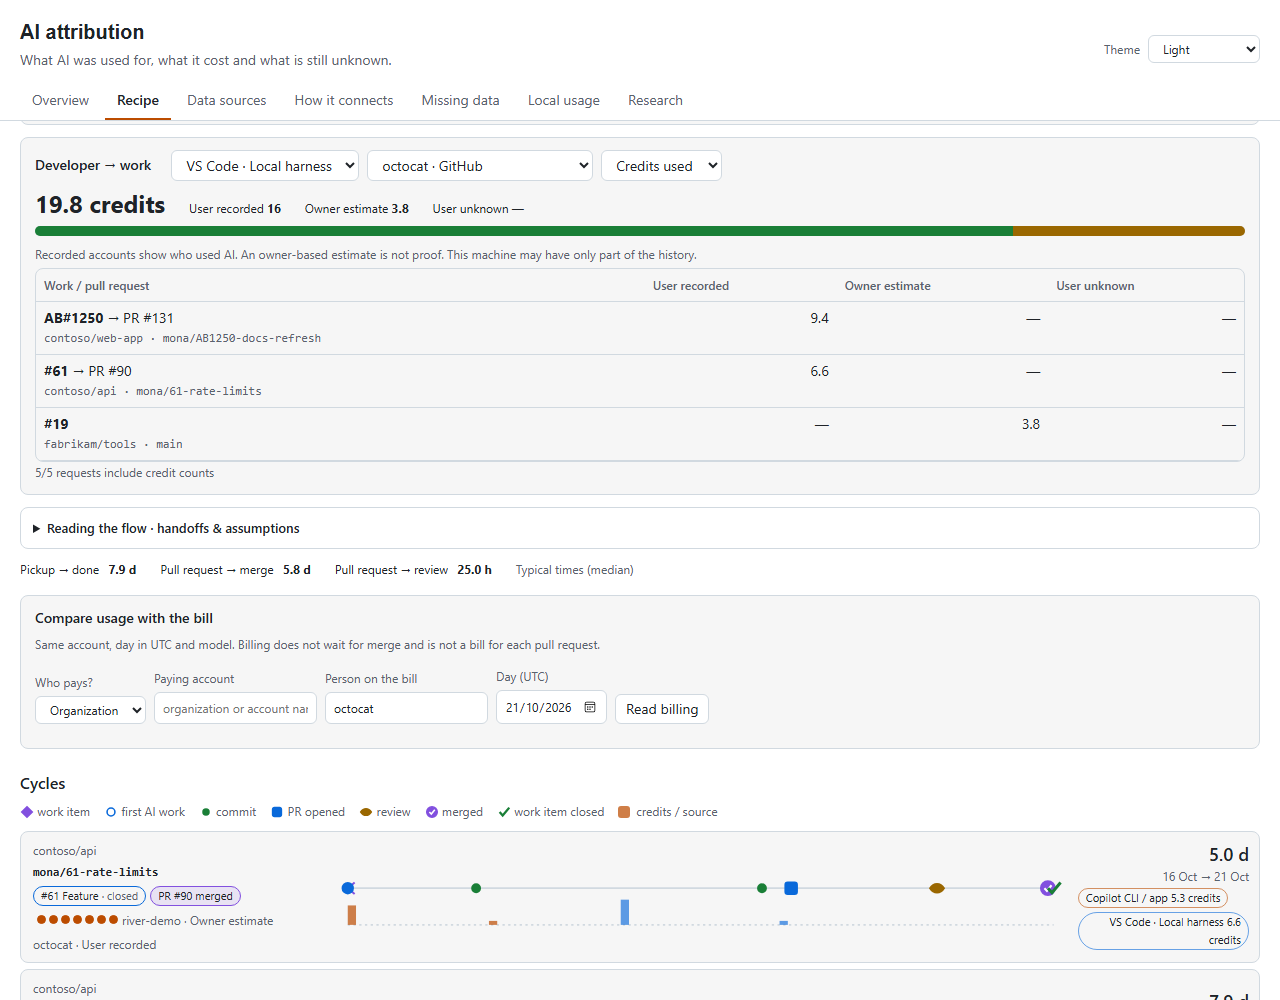
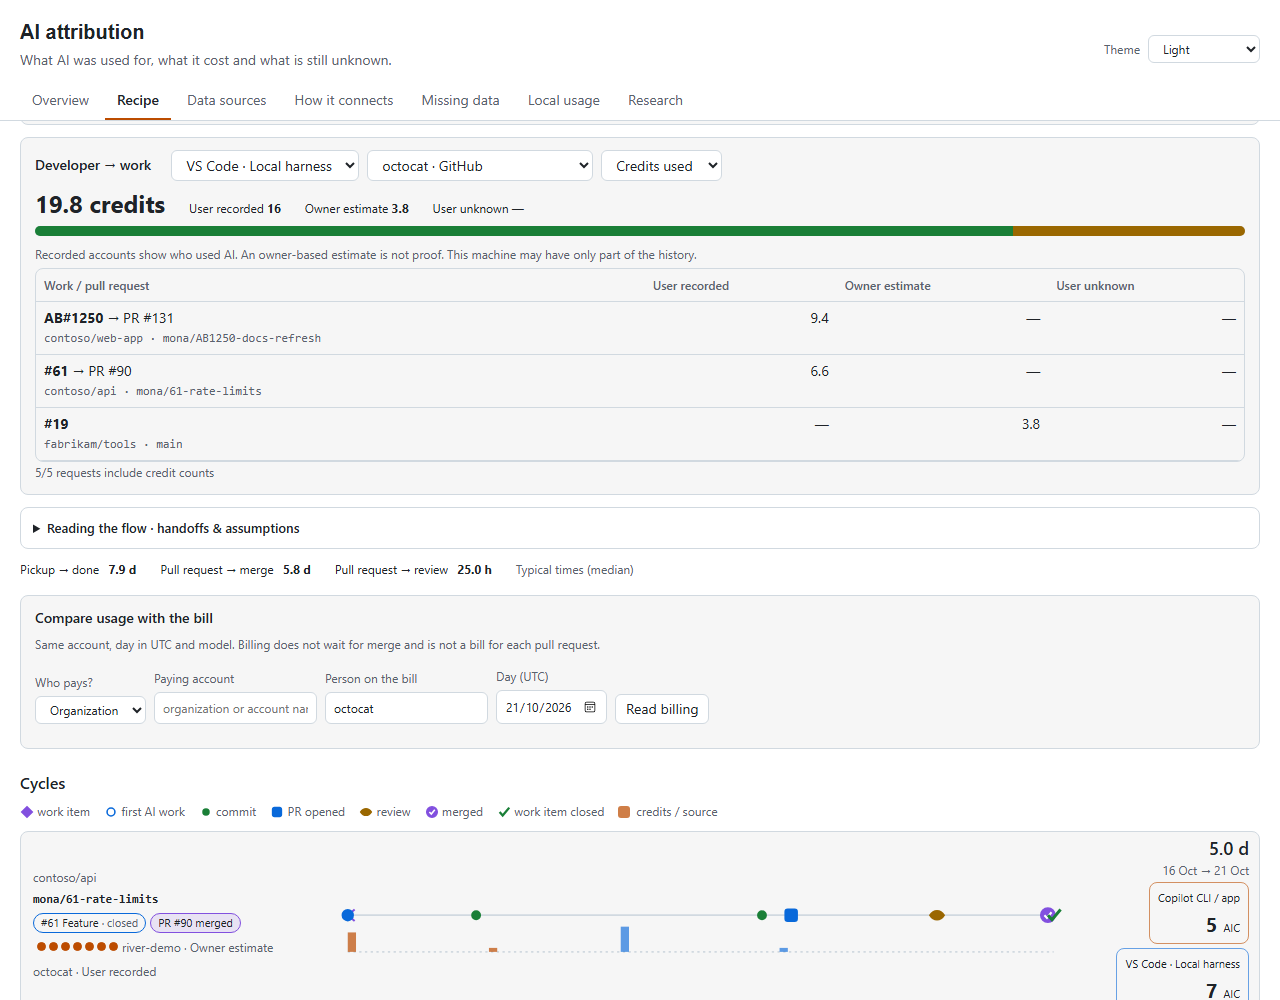
Polish Recipe credit readouts and end-to-end setup (#40)
Keep one rounded, whole-credit AIC readout per source with compact individual attribution. Remove duplicate credit cards, simplify the Commit label, and focus setup on work-item, branch, hook, PR and billing-account conventions. Refresh synthetic previews and regression coverage without changing accounting.

Copilot-Session: 50509983-6ac1-467a-82f2-4aec8730c238

diff --git a/tools/make-canvas-shots.js b/tools/make-canvas-shots.js
@@ -86,6 +86,16 @@ const SHOTS = [
     ready: "document.querySelector('.recipe-strip svg') && document.body.innerText.includes('Local records only')",
   },
   {
+    file: 'canvas-recipe-credits.png',
+    view: 'recipe',
+    w: 1440,
+    h: 1020,
+    dsf: 1,
+    focus: '.lane.open',
+    ready: "document.querySelector('.recipe-strip svg') && document.body.innerText.includes('Azure Boards: connected')",
+    prepare: "document.querySelector('.lane-meta').click()",
+  },
+  {
     file: 'canvas-recipe-developer.png',
     view: 'recipe',
     w: 1280,
@@ -695,6 +705,19 @@ async function verifyCompactView(ws, sessionId, view) {
     assert.ok(methods.every((method) => !/\bT[0-3]\b/.test(method.text)), 'no research-only codes remain in expanded method descriptions');
   }
   if (view === 'recipe') {
+    const setup = await evaluate(ws, sessionId, `(() => {
+      const section = document.querySelector('[data-detail="recipe-setup"]');
+      return { steps: [...section.querySelectorAll('[data-setup-step]')].map(row => row.dataset.setupStep), text: section.textContent };
+    })()`);
+    assert.deepEqual(setup.steps, ['workItem', 'branch', 'commitLinks', 'identity', 'delivery', 'billingAccount', 'billingMatch'],
+      'setup follows work-item, branch/session, commit/PR, identity, delivery and billing configuration');
+    assert.doesNotMatch(setup.text, /\bNode\b|runtime version|prerequisite/i, 'setup focuses on flow conventions, not runtime prerequisites');
+    for (const point of ['assign it before AI work', 'alex/123-feature', 'alex/AB123-feature', 'immediately after the last slash',
+      'Start the AI session in that repository', 'Refs: #123', 'Refs: AB#123', 'Closes #123', 'preserve existing hooks',
+      'Work Items (Read)', 'Choose Personal', 'actual account paying', 'Do not enter a personal username as an organization',
+      'completed UTC day', 'exact model', 'not owner estimates']) {
+      assert.ok(setup.text.includes(point), `setup explains ${point}`);
+    }
     assert.equal(await evaluate(ws, sessionId, "document.querySelector('[aria-label=\"Usage source\"] option[value=\"traces\"]').textContent"), 'VS Code · Local harness');
     assert.equal(await evaluate(ws, sessionId, "document.querySelector('h2.recipe-headline')?.textContent"),
       "What work is behind this developer's AI credits?");
@@ -857,6 +880,44 @@ async function verifyBillingUI(ws, sessionId, day) {
   })()`);
   await waitForRender(ws, sessionId, "document.querySelector('.billing-stats') && document.body.innerText.includes('Billed credits not matched here:')");
   console.log('Billing UI passed: explicit read, scoped comparison and estimated work shares.');
+}
+
+async function verifyCycleCredits(ws, sessionId) {
+  const values = await evaluate(ws, sessionId, `(() => {
+    const lane = [...document.querySelectorAll('.lane')].find(el => el.querySelector('.branch')?.textContent === 'mona/61-rate-limits');
+    if (!lane) throw new Error('Synthetic multi-source cycle missing');
+    lane.querySelector('.lane-meta').click();
+    const expanded = [...document.querySelectorAll('.lane.open')].find(el => el.querySelector('.branch')?.textContent === 'mona/61-rate-limits');
+    return {
+      sources: [...expanded.querySelectorAll('.lane-side .src')].map(el => ({
+        source: el.dataset.cycleCreditSource,
+        actor: el.querySelector('.source-credit-person').dataset.cycleCreditActor,
+        method: el.querySelector('.source-credit-person').dataset.creditMethod,
+        credits: el.querySelector('.source-credit-value').textContent,
+        fontSize: parseFloat(getComputedStyle(el.querySelector('.source-credit-value')).fontSize),
+        radius: parseFloat(getComputedStyle(el).borderTopLeftRadius),
+      })),
+      duplicatePanels: expanded.querySelectorAll('.cycle-credit-report, .cycle-credit-grid, .cycle-credit-card').length,
+      legacyCreditChips: expanded.querySelectorAll('.actor-roles .chip.inferred, .actor-roles .chip.measured').length,
+      commitLabels: [...expanded.querySelectorAll('.rc-head strong')].map(el => el.textContent),
+      cloud: expanded.querySelector('[data-cloud-review-credits]').textContent,
+    };
+  })()`);
+  assert.deepEqual(values.sources.map(({ actor, source, method, credits }) => ({ actor, source, method, credits })), [
+    { actor: 'github:river-demo', source: 'sessionStore', method: 'inferred', credits: '5' },
+    { actor: 'github:octocat', source: 'traces', method: 'measured', credits: '7' },
+  ], 'cycle fields show the existing individual/source splits, not their combined sum');
+  assert.ok(values.sources.every(source => source.fontSize >= 20 && source.radius >= 4 && source.radius <= 12),
+    'larger source totals have rounded rectangle corners instead of pill ends');
+  assert.equal(values.duplicatePanels, 0, 'the expanded cycle has no duplicate credit panel in the middle');
+  assert.equal(values.legacyCreditChips, 0, 'prominent fields replace the small credit chips rather than duplicate them');
+  assert.ok(values.commitLabels.includes('Commit'));
+  assert.ok(!values.commitLabels.some(label => /commit, commit/i.test(label)));
+  assert.match(values.cloud, /not recorded; no combined local\/cloud total/);
+  await send(ws, 'Emulation.setDeviceMetricsOverride', { width: 390, height: 844, deviceScaleFactor: 1, mobile: false }, sessionId);
+  assert.ok(await evaluate(ws, sessionId, 'document.documentElement.scrollWidth <= 391'), 'expanded credit fields fit a narrow page');
+  await evaluate(ws, sessionId, `document.querySelector('.lane.open .lane-meta').click()`);
+  console.log('Cycle credit fields passed: rounded source totals, compact attribution, rounded rectangles and no duplicate credit panel.');
 }
 
 async function verifyThemes(ws, sessionId) {
@@ -1153,7 +1214,12 @@ async function captureRecipeStory(ws, sessionId, serverUrl, shot, now) {
       await send(ws, 'Page.navigate', { url: server.url }, sessionId);
       await waitForRender(ws, sessionId, shot.ready);
       await verifyCompactView(ws, sessionId, shot.view);
-      if (shot.file === 'canvas-recipe.png') await verifyDeveloperFilters(ws, sessionId);
+      if (shot.file === 'canvas-recipe.png') {
+        await verifyDeveloperFilters(ws, sessionId);
+        await verifyCycleCredits(ws, sessionId);
+        await send(ws, 'Emulation.setDeviceMetricsOverride',
+          { width: shot.w, height: shot.h, deviceScaleFactor: shot.dsf, mobile: false }, sessionId);
+      }
       if (shot.billing) await verifyBillingUI(ws, sessionId, iso(now, 4).slice(0, 10));
       if (!themesVerified) {
         await verifyThemes(ws, sessionId);

diff --git a/test/recipeActors.test.js b/test/recipeActors.test.js
@@ -62,6 +62,17 @@ it('developer report answers the 400k question without combining sources or repl
   assert.equal(view.developers.sources.find((s) => s.id === 'sessionStore').total.credits, 200000, 'the second source stays separate');
 });
 
+it('cycle AIC readouts round to whole credits while preserving small, zero and unknown distinctions', async () => {
+  const { formatCycleCredits } = await import(pathToFileURL(path.join(lib, '..', 'ui', 'recipe.mjs')).href);
+  assert.equal(formatCycleCredits(4.123456), '4');
+  assert.equal(formatCycleCredits(3.654321), '4');
+  assert.equal(formatCycleCredits(9876.54321), new Intl.NumberFormat(undefined, { maximumFractionDigits: 0 }).format(9877));
+  assert.equal(formatCycleCredits(0.000001), '<1');
+  assert.equal(formatCycleCredits(0), '0');
+  assert.equal(formatCycleCredits(null), '—');
+  assert.equal(formatCycleCredits(undefined), '—');
+});
+
 it('case-insensitive login joins do not use branch names, device identities, emails or matching display names', async () => {
   const { telemetryActor, githubActor, boardsActor, ownershipFor, validateIdentityLinks } = await load('actors.mjs');
   assert.equal(telemetryActor('Alex').key, githubActor('alex').key);

diff --git a/test/recipeCanvas.test.js b/test/recipeCanvas.test.js
@@ -44,6 +44,7 @@ it('recipe model: steps reference real concepts in phase order', () => {
   const concepts = new Set(model.concepts.map((c) => c.id));
   assert.deepEqual(r.phases.map((p) => p.id), ['ingredients', 'method', 'serve']);
   assert.deepEqual(r.steps.map((s) => s.id), ['workItem', 'branch', 'aiWork', 'commits', 'pullRequest', 'review', 'close']);
+  assert.equal(r.steps.find((s) => s.id === 'commits').name, 'Commit');
   for (const step of r.steps) {
     assert.ok(r.phases.some((p) => p.id === step.phase), step.id);
     for (const c of step.concepts) assert.ok(concepts.has(c), `${step.id}: ${c}`);

diff --git a/.github/extensions/ai-attribution/ui/style.css b/.github/extensions/ai-attribution/ui/style.css
@@ -1222,6 +1222,31 @@ table.compact td {
   white-space: normal;
   overflow-wrap: anywhere;
 }
+.lane-side .source-chips,
+.lane-side .src {
+  display: grid;
+  justify-items: end;
+  gap: 4px;
+  min-width: 0;
+}
+.lane-side .src {
+  border-radius: var(--radius);
+  padding: 6px 8px;
+}
+.source-credit-amount {
+  display: flex;
+  align-items: baseline;
+  flex-wrap: wrap;
+  justify-content: flex-end;
+  gap: 6px;
+}
+.source-credit-value {
+  font-size: 20px;
+  line-height: 26px;
+}
+.source-credit-person {
+  overflow-wrap: anywhere;
+}
 .developer-report {
   margin: 12px 0;
 }

diff --git a/.github/extensions/ai-attribution/README.md b/.github/extensions/ai-attribution/README.md
@@ -166,12 +166,21 @@ that have the step in any order, and the hatched band is unknown until verified.
 Dotted tails show where cycles left the in-order recipe. Each step's evidence bar
 splits **Verified** (GitHub or Azure Boards API), **Recorded** (an agent-recorded
 reference, not ownership), **Convention** (branch name) and **Observed** (local
-telemetry). Counts appear once in the strip; detailed credits appear once in
-the developer table. Select a cycle to see its step-by-step card. Redundant
-KPI cards, ingredient summaries and the duplicated surface matrix are removed.
+telemetry). Counts appear once in the strip; the developer table summarizes work.
+Each cycle keeps one right-hand **AI credit (AIC)** readout per source, in a rounded
+rectangle. Amounts are rounded to whole credits for display; positive amounts
+below one show **<1**, and missing reports stay unknown. Expand the cycle for
+compact account/owner-estimate details beside those totals, not a duplicate
+credit card in the middle. Underlying balances are unchanged and sources are
+never combined. The **Commit** step has a single label.
+Cloud-review credits are marked **not recorded**: review events and bot names do
+not supply credit amounts here, so a combined local/cloud total is unavailable.
+Redundant KPI cards, ingredient summaries and the duplicated surface matrix are removed.
 The rightmost **Compare usage and bill** checkpoint is connected with a dashed
 line: it follows delivery visually, but runs independently and is not an eighth
 delivery funnel stage or a per-PR invoice.
+
+![Expanded synthetic cycle with rounded right-hand AI-credit totals and compact account details](../../../docs/media/canvas-recipe-credits.png)
 
 Before verification, review, merge and closure are unknown rather than zero:
 
@@ -259,11 +268,19 @@ PR are consumption, not cost.
 
 ### Setup & permissions
 
-The Recipe section is the operational checklist for local stores and identity
-capture, branch conventions, GitHub repository read access, Azure Boards
-Work Items (Read) / project access and the paying account's billing permission.
-It explains missing history, inferred owners, explicit provider identity links,
-network opt-in and how to preserve existing commit hooks.
+The Recipe checklist follows the end-to-end setup: create and assign a work item,
+name its branch, start the AI session in that repository/branch, preserve and
+enable commit hooks, and link the PR to the item. `Refs:` links a commit;
+`Closes #123` in a GitHub PR closes that repository's issue on default-branch merge.
+Boards integration and closure are checked separately.
+
+It covers recorded versus estimated identity, explicit provider account links,
+GitHub read access and Azure Boards Work Items (Read) / project access.
+Billing setup starts with the actual paying account: **Personal** is not an
+organization, and organization-managed seats do not appear on personal reports.
+Billing access is separate from repository access; comparisons need a recorded
+GitHub consumer, completed UTC day, exact model and one local source.
+Runtime versions are technical prerequisites, not part of this flow checklist.
 
 ![Recipe setup and permission checklist with invented accounts only](../../../docs/media/canvas-recipe-setup.png)
 

diff --git a/tools/README.md b/tools/README.md
@@ -47,9 +47,16 @@ navigation, disclosure state/focus after rendering, full evidence access and
 390px layouts. Gaps and Research have their own synthetic previews.
 Recipe checks developer/source filters, usage versus ownership and explicit
 provider identity link/remove. Its account identities and API responses are synthetic.
+`canvas-recipe-credits.png` focuses on rounded right-hand AIC totals with compact
+individual attribution. Checks preserve source/identity splits and owner-estimate
+labels, reject duplicate middle panels and invented cloud totals, and verify
+font sizes, rounded-rectangle corners and narrow layouts.
 Billing exercises the real client with an injected synthetic `gh` response:
 explicit submission, native-user/day/model scope, amount precision and estimated
-work costs. The setup preview expands the prerequisites/permissions checklist.
+work costs. The setup preview expands the flow-conventions/access checklist.
+Setup checks pin the work-item/branch/session/hook/PR conventions, read access
+and Personal-versus-organization billing scope; runtime-version advice stays out
+of the end-to-end checklist.
 Dashboard shots include `dashboard-light.png`, both high-contrast variants and
 `dashboard-sdk.png`. They emulate VS Code's body classes/semantic tokens, check
 body-text contrast and verify that SVG paints follow live theme changes without

diff --git a/CHANGELOG.md b/CHANGELOG.md
@@ -2,6 +2,14 @@
 
 ## Unreleased
 
+- **Flow-focused setup:** replaced runtime-version advice with work-item ownership,
+  issue-linked branch/session and commit/PR conventions, read permissions, paying
+  account selection and the conditions for comparing billing with recorded usage.
+- **Readable cycle credits:** larger, whole-credit source totals in rounded
+  rectangles on the right, with compact individual/owner-estimate details.
+  Removed the duplicate middle credit panel; underlying usage is unchanged.
+  Missing cloud-review usage stays unknown rather than producing a combined total.
+  Shortened the repeated commit step to **Commit**; accounting is unchanged.
 - **Experimental-use warning:** every canvas tab has the same footer explaining
   that results may be incomplete or inaccurate and are not a sole basis for
   billing, savings claims or individual performance decisions.
